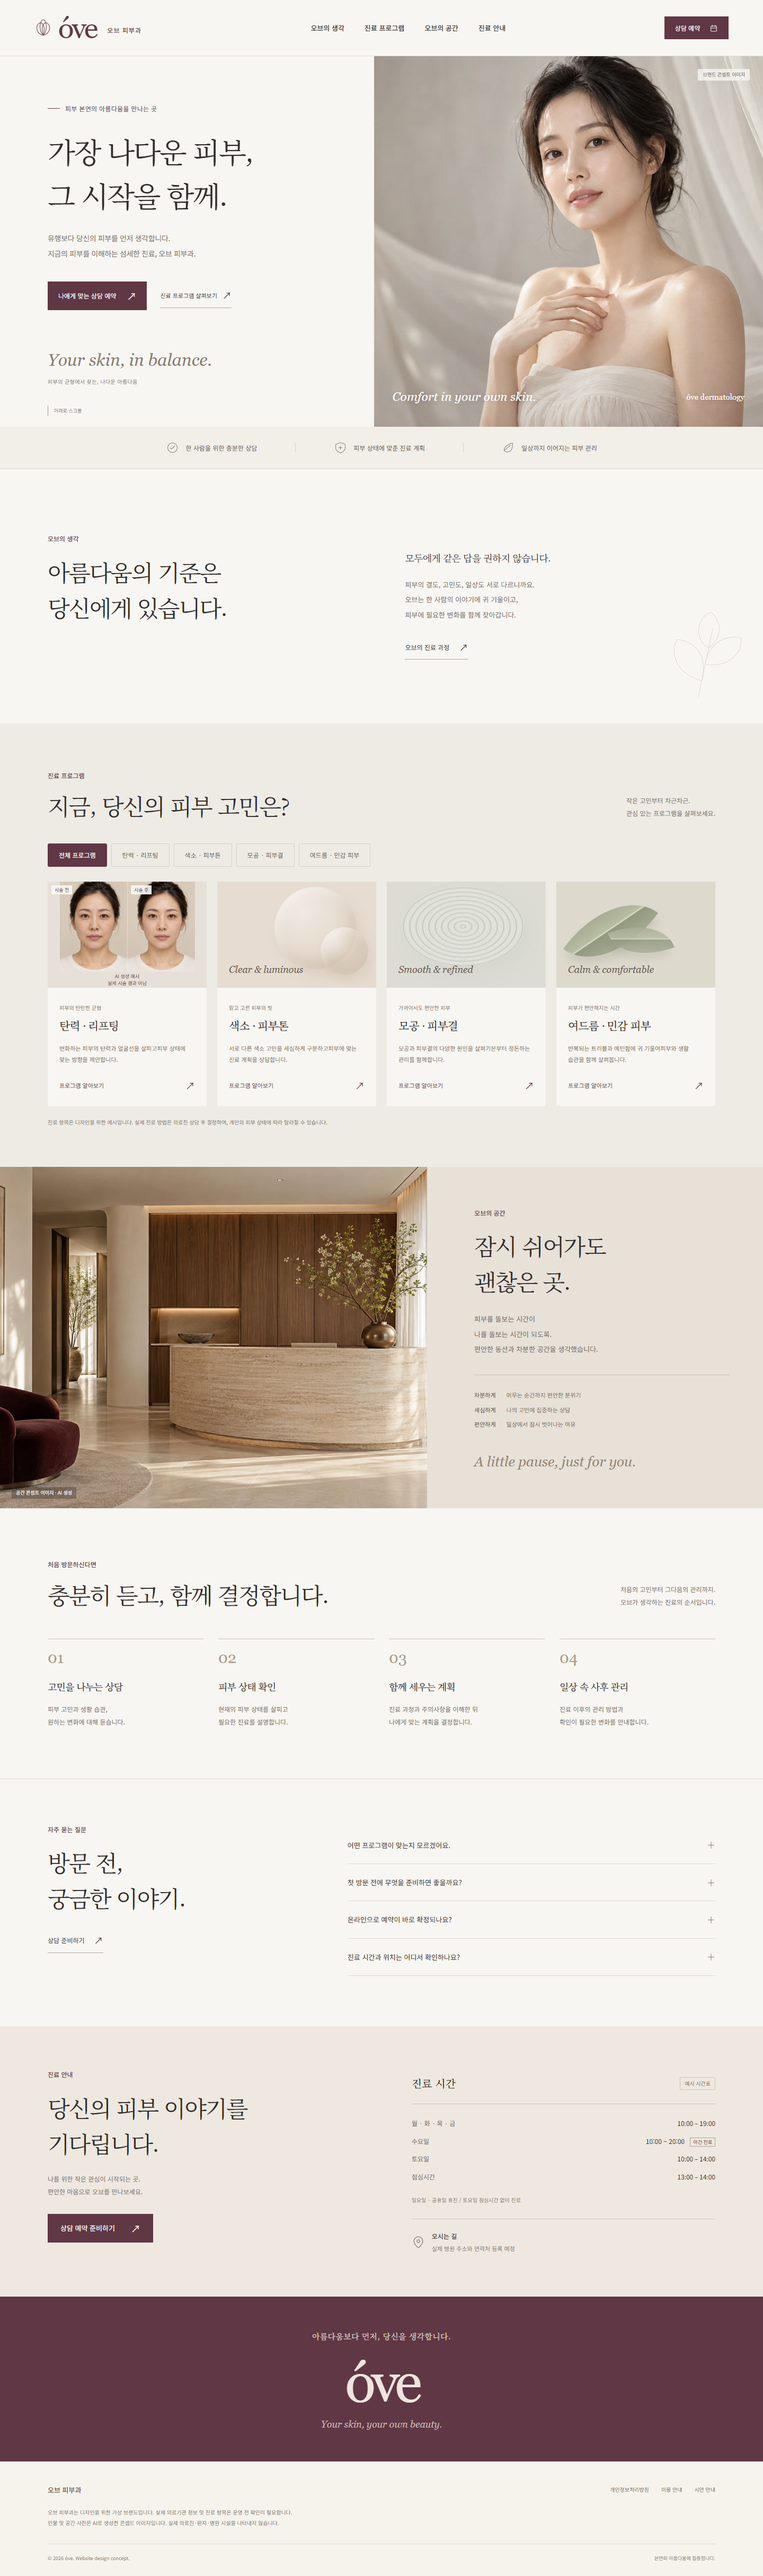
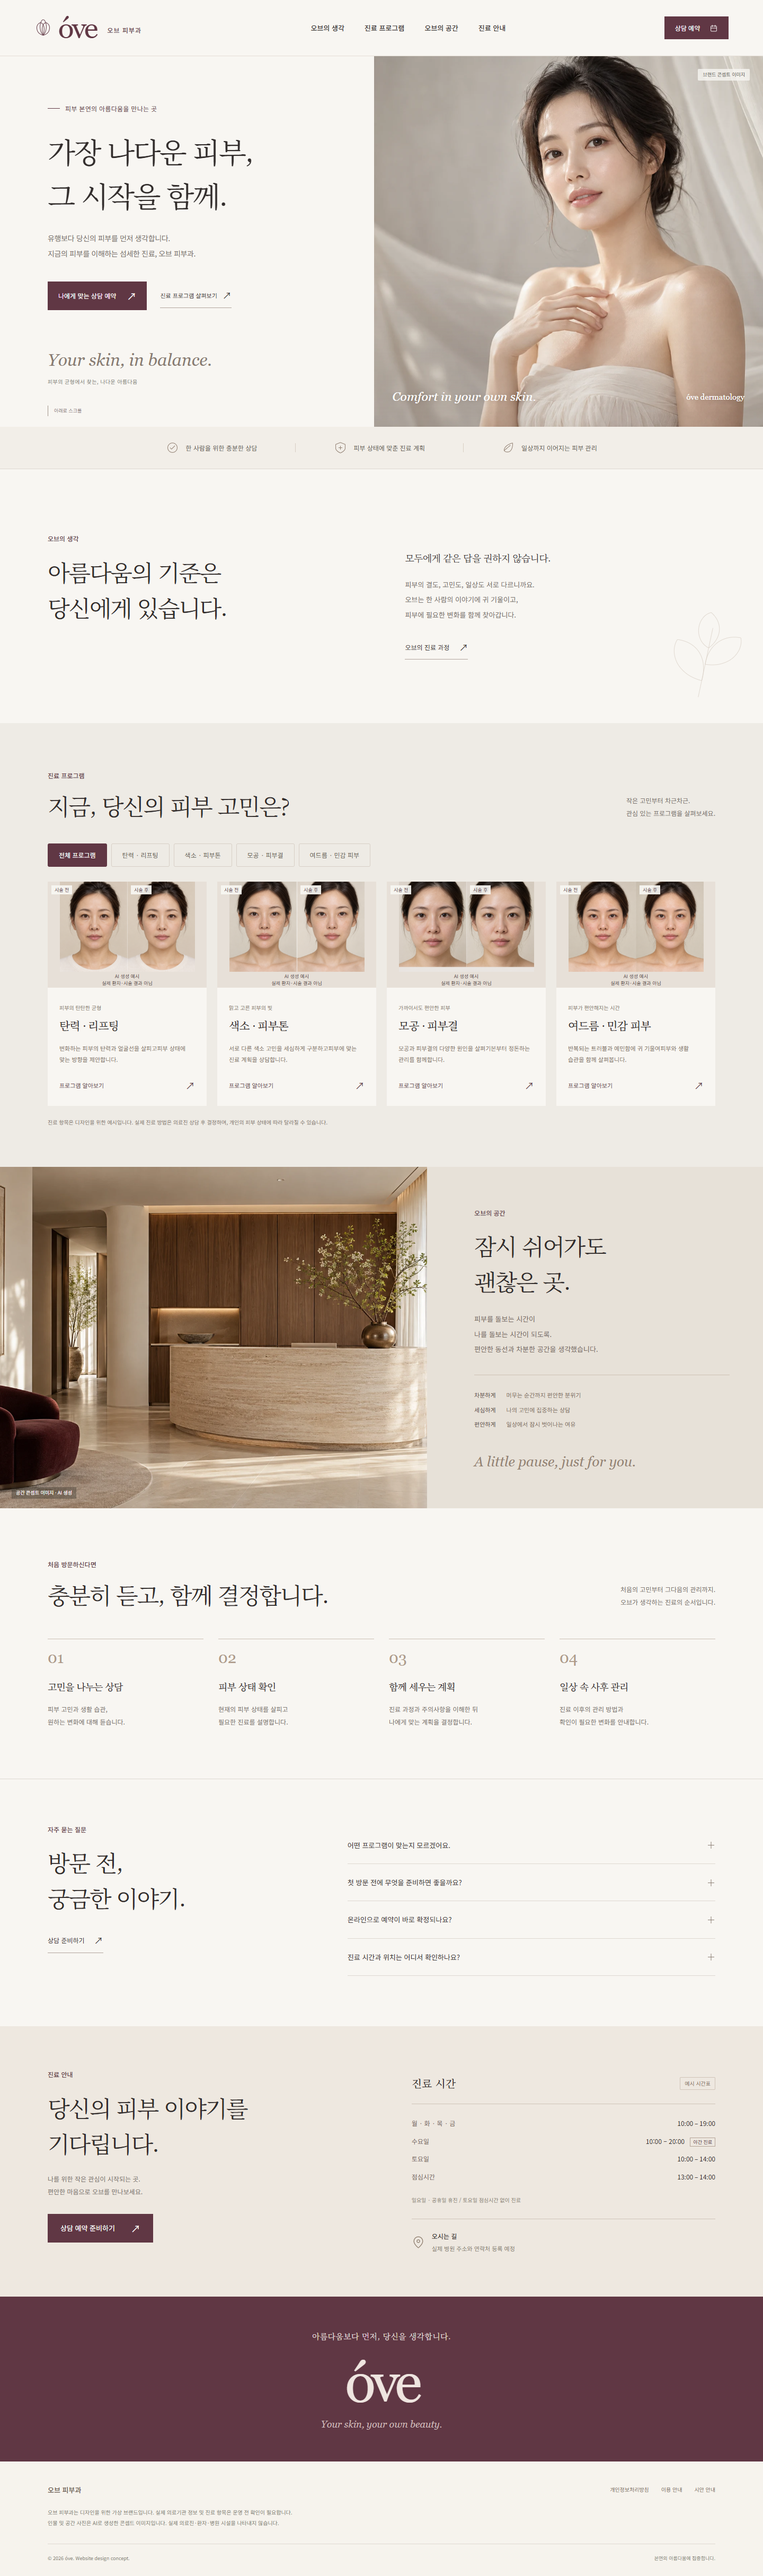
Add AI skin comparison imagery

Changed region(s): [[0.5, 0.3418, 0.9375, 0.404], [0.2812, 0.3418, 0.4688, 0.404]]

diff --git a/index.html b/index.html
@@ -52,10 +52,10 @@
       <div class="section-topline"><div><p class="section-kicker">진료 프로그램</p><h2 id="care-title">지금, 당신의 피부 고민은?</h2></div><p class="section-description">작은 고민부터 차근차근.<br>관심 있는 프로그램을 살펴보세요.</p></div>
       <div class="care-tabs" role="tablist" aria-label="피부 고민 선택"><button id="tab-all" role="tab" aria-selected="true" aria-controls="care-panel" data-category="all" tabindex="0">전체 프로그램</button><button id="tab-elasticity" role="tab" aria-selected="false" aria-controls="care-panel" data-category="elasticity" tabindex="-1">탄력 · 리프팅</button><button id="tab-tone" role="tab" aria-selected="false" aria-controls="care-panel" data-category="tone" tabindex="-1">색소 · 피부톤</button><button id="tab-texture" role="tab" aria-selected="false" aria-controls="care-panel" data-category="texture" tabindex="-1">모공 · 피부결</button><button id="tab-trouble" role="tab" aria-selected="false" aria-controls="care-panel" data-category="trouble" tabindex="-1">여드름 · 민감 피부</button></div>
       <div id="care-panel" class="care-grid" role="tabpanel" aria-labelledby="tab-all" tabindex="0">
-        <article class="care-card" data-care="elasticity"><div class="care-art art-lift care-comparison"><img src="assets/lifting-before-after.png" alt="동일한 가상의 30대 한국 여성의 탄력·리프팅 시술 전후를 표현한 AI 생성 예시. 실제 환자나 시술 결과가 아닙니다." width="1536" height="1024" loading="lazy"><div class="comparison-labels" aria-hidden="true"><span>시술 전</span><span>시술 후</span></div><small class="comparison-note">AI 생성 예시<br>실제 시술 결과 아님</small></div><div class="care-card-body"><span class="care-subtitle">피부의 탄탄한 균형</span><h3>탄력 · 리프팅</h3><p>변화하는 피부의 탄력과 얼굴선을 살피고<br>피부 상태에 맞는 방향을 제안합니다.</p><button class="card-link" data-detail="elasticity">프로그램 알아보기 <span aria-hidden="true">↗</span></button></div></article>
-        <article class="care-card" data-care="tone"><div class="care-art art-tone" aria-hidden="true"><div class="glass-sphere sphere-one"></div><div class="glass-sphere sphere-two"></div><span>Clear &amp; luminous</span></div><div class="care-card-body"><span class="care-subtitle">맑고 고른 피부의 빛</span><h3>색소 · 피부톤</h3><p>서로 다른 색소 고민을 세심하게 구분하고<br>피부에 맞는 진료 계획을 상담합니다.</p><button class="card-link" data-detail="tone">프로그램 알아보기 <span aria-hidden="true">↗</span></button></div></article>
-        <article class="care-card" data-care="texture"><div class="care-art art-texture" aria-hidden="true"><div class="ripple"></div><span>Smooth &amp; refined</span></div><div class="care-card-body"><span class="care-subtitle">가까이서도 편안한 피부</span><h3>모공 · 피부결</h3><p>모공과 피부결의 다양한 원인을 살펴<br>기본부터 정돈하는 관리를 함께합니다.</p><button class="card-link" data-detail="texture">프로그램 알아보기 <span aria-hidden="true">↗</span></button></div></article>
-        <article class="care-card" data-care="trouble"><div class="care-art art-calm" aria-hidden="true"><div class="calm-leaf leaf-one"></div><div class="calm-leaf leaf-two"></div><span>Calm &amp; comfortable</span></div><div class="care-card-body"><span class="care-subtitle">피부가 편안해지는 시간</span><h3>여드름 · 민감 피부</h3><p>반복되는 트러블과 예민함에 귀 기울여<br>피부와 생활 습관을 함께 살펴봅니다.</p><button class="card-link" data-detail="trouble">프로그램 알아보기 <span aria-hidden="true">↗</span></button></div></article>
+        <article class="care-card" data-care="elasticity"><div class="care-art art-lift care-comparison"><img src="assets/lifting-before-after.png" alt="동일한 가상의 30대 한국 여성의 탄력·리프팅 시술 전후를 표현한 AI 생성 예시. 실제 환자나 시술 결과가 아닙니다." width="1536" height="1024" loading="lazy"><div class="comparison-labels" aria-hidden="true"><span>시술 전</span><span>시술 후</span></div><small class="comparison-note">AI 생성 예시<br>실제 환자·시술 결과 아님</small></div><div class="care-card-body"><span class="care-subtitle">피부의 탄탄한 균형</span><h3>탄력 · 리프팅</h3><p>변화하는 피부의 탄력과 얼굴선을 살피고<br>피부 상태에 맞는 방향을 제안합니다.</p><button class="card-link" data-detail="elasticity">프로그램 알아보기 <span aria-hidden="true">↗</span></button></div></article>
+        <article class="care-card" data-care="tone"><div class="care-art art-tone care-comparison"><img src="assets/tone-before-after.png" alt="가상의 30대 한국 여성의 색소·피부톤 전후를 표현한 AI 생성 예시. 실제 환자나 시술 결과가 아닙니다." width="1536" height="1024" loading="lazy"><div class="comparison-labels" aria-hidden="true"><span>시술 전</span><span>시술 후</span></div><small class="comparison-note">AI 생성 예시<br>실제 환자·시술 결과 아님</small></div><div class="care-card-body"><span class="care-subtitle">맑고 고른 피부의 빛</span><h3>색소 · 피부톤</h3><p>서로 다른 색소 고민을 세심하게 구분하고<br>피부에 맞는 진료 계획을 상담합니다.</p><button class="card-link" data-detail="tone">프로그램 알아보기 <span aria-hidden="true">↗</span></button></div></article>
+        <article class="care-card" data-care="texture"><div class="care-art art-texture care-comparison"><img src="assets/texture-before-after.png" alt="가상의 30대 한국 여성의 모공·피부결 전후를 표현한 AI 생성 예시. 실제 환자나 시술 결과가 아닙니다." width="1536" height="1024" loading="lazy"><div class="comparison-labels" aria-hidden="true"><span>시술 전</span><span>시술 후</span></div><small class="comparison-note">AI 생성 예시<br>실제 환자·시술 결과 아님</small></div><div class="care-card-body"><span class="care-subtitle">가까이서도 편안한 피부</span><h3>모공 · 피부결</h3><p>모공과 피부결의 다양한 원인을 살펴<br>기본부터 정돈하는 관리를 함께합니다.</p><button class="card-link" data-detail="texture">프로그램 알아보기 <span aria-hidden="true">↗</span></button></div></article>
+        <article class="care-card" data-care="trouble"><div class="care-art art-calm care-comparison"><img src="assets/acne-before-after.png" alt="가상의 30대 한국 여성의 여드름·민감 피부 전후를 표현한 AI 생성 예시. 실제 환자나 시술 결과가 아닙니다." width="1536" height="1024" loading="lazy"><div class="comparison-labels" aria-hidden="true"><span>시술 전</span><span>시술 후</span></div><small class="comparison-note">AI 생성 예시<br>실제 환자·시술 결과 아님</small></div><div class="care-card-body"><span class="care-subtitle">피부가 편안해지는 시간</span><h3>여드름 · 민감 피부</h3><p>반복되는 트러블과 예민함에 귀 기울여<br>피부와 생활 습관을 함께 살펴봅니다.</p><button class="card-link" data-detail="trouble">프로그램 알아보기 <span aria-hidden="true">↗</span></button></div></article>
       </div>
       <p class="care-note">진료 항목은 디자인을 위한 예시입니다. 실제 진료 방법은 의료진 상담 후 결정하며, 개인의 피부 상태에 따라 달라질 수 있습니다.</p>
     </section>

diff --git a/styles.css b/styles.css
@@ -13,5 +13,5 @@
 @media(max-width:680px){html{scroll-padding-top:78px}.section-shell{padding:62px 24px}.site-header{height:78px;padding:0 22px;position:sticky;top:0}.brand{gap:9px}.brand-mark{width:26px;height:33px}.wordmark{font-size:44px;gap:15px}.brand-ko{display:block;font-size:10px;letter-spacing:0;padding-top:7px}.desktop-nav{display:none}.header-actions{gap:10px}.header-actions .button-small{min-height:35px;padding:9px 12px;font-size:10px}.header-actions .button-small svg{display:none}.menu-toggle{display:block}.menu-toggle[aria-expanded=true] span:first-child{transform:translateY(4px) rotate(45deg)}.menu-toggle[aria-expanded=true] span:last-child{transform:translateY(-4px) rotate(-45deg)}.mobile-nav{position:absolute;top:78px;left:0;right:0;padding:12px 24px 22px;background:var(--paper);border-bottom:1px solid var(--line);box-shadow:0 10px 14px #322b2208}.mobile-nav.open{display:flex;flex-direction:column}.mobile-nav a{padding:13px 0;border-bottom:1px solid #e9e2d8;font-size:13px}.hero{display:flex;flex-direction:column;min-height:0}.hero-copy{padding:46px 24px 36px;order:0}.hero-intro{font-size:10px;margin-bottom:20px;gap:9px}.hero h1{font-size:38px;line-height:1.55}.hero-description{font-size:12px;margin-top:19px}.hero-actions{flex-direction:row;align-items:center;gap:18px;margin-top:25px}.hero-actions .button{font-size:10px;padding:15px 15px;gap:18px;min-height:47px}.hero-actions .text-link{font-size:10px;gap:7px}.hero-signature{display:none}.hero-visual{height:365px;order:1}.hero-visual>img{object-position:62% 40%}.image-caption{bottom:23px;left:24px;right:24px;font-size:25px}.image-caption>span:last-child{display:none}.hero-image-note{top:16px;right:17px;font-size:8px}.scroll-cue{display:none}.values-strip{padding:20px 24px;justify-content:space-between;gap:12px}.values-strip p{flex-direction:column;text-align:center;gap:9px;max-width:94px;font-size:9px;line-height:1.7}.values-strip svg{height:24px;width:24px}.values-strip>span{height:30px}.philosophy{grid-template-columns:1fr;gap:26px}.section-kicker{font-size:11px;margin-bottom:15px}h2{font-size:30px;line-height:1.6}.philosophy-copy{padding:0 0 0 15%}.philosophy-copy .lead{font-size:16px}.philosophy-copy>p:not(.lead){font-size:12px;margin-top:14px}.philosophy-copy .text-link{margin-top:20px}.botanical{right:-16px;bottom:40px;width:119px;opacity:.3}.section-topline{display:block}.section-description{margin-top:15px;font-size:11px}.section-description br{display:none}.care{padding-left:20px;padding-right:20px}.care-tabs{margin-top:26px;gap:7px}.care-tabs button{font-size:10px;padding:9px 12px}.care-grid{gap:13px;min-height:0}.care-art{height:158px}.care-art>span{font-size:14px;bottom:11px;left:13px}.care-card-body{padding:17px 13px}.care-subtitle{font-size:8px}.care-card h3{font-size:18px;margin-top:5px;margin-bottom:10px}.care-card p{font-size:10px;line-height:1.95}.card-link{font-size:9px;padding-top:18px}.card-link>span{font-size:17px}.care-note{font-size:9px;margin-top:20px}.silk-loop{width:145px;height:100px;border-width:19px;left:12px;top:17px}.loop-two{width:117px;height:80px;left:54px;top:47px;border-width:15px}.sphere-one{width:120px;height:120px;right:20px;top:7px}.sphere-two{height:67px;width:67px;right:4px;top:73px}.ripple{left:3px;top:-42px;width:200px;height:200px}.calm-leaf{left:25px;top:8px;width:82px;height:123px}.leaf-two{left:82px;top:50px;width:54px;height:87px}.care-grid.filtered .care-card{grid-template-columns:1fr 1fr;min-height:245px}.care-grid.filtered .care-art{height:100%}.care-grid.filtered .care-card-body{align-self:center}.space{grid-template-columns:1fr}.space-image{min-height:0;height:330px}.space-image img{object-position:center}.space-copy{padding:44px 24px 49px}.space-copy h2 br{display:none}.space-copy>p:not(.section-kicker){margin-top:19px}.space-details{margin-top:24px;padding-top:20px}.space-details p{display:flex;gap:22px;margin:4px 0;font-size:11px}.space-signature{margin-top:22px;font-size:26px}.journey-steps{grid-template-columns:1fr 1fr;row-gap:33px;column-gap:22px;margin-top:32px}.step-number{font-size:26px}.journey-steps h3{font-size:17px;margin-top:14px}.journey-steps p{font-size:11px;margin-top:10px}.faq{grid-template-columns:1fr;gap:22px}.faq h2 br{display:none}.faq .text-link{margin-top:16px}.faq summary{font-size:12px;padding:21px 0}.faq details>p{font-size:11px}.visit{grid-template-columns:1fr;gap:38px}.visit h2{font-size:30px}.visit-copy>.button{font-size:11px;margin-top:23px}.visit-info{padding-top:0}.hours>div{font-size:12px;padding:7px 0}.hours-note{font-size:10px}.visit-address p{font-size:11px}.closing{padding:48px 24px}.closing>p{font-size:12px}.closing-wordmark{font-size:94px}.closing>span{font-size:17px}.site-footer{padding:31px 24px 90px}.footer-top{align-items:flex-start;gap:18px;flex-direction:column}.footer-top>div{gap:20px}.site-footer>p{font-size:9px}.footer-bottom{font-size:8px;margin-top:23px;display:block}.footer-bottom>span:last-child{display:none}.mobile-book-bar{position:fixed;bottom:0;left:0;right:0;z-index:15;background:var(--paper);display:grid;grid-template-columns:1fr 1.5fr;box-shadow:0 -2px 20px #33231b10;padding-bottom:env(safe-area-inset-bottom)}.mobile-book-bar>a,.mobile-book-bar>button{font-size:12px;min-height:54px;display:flex;align-items:center;justify-content:center}.mobile-book-bar>button{background:var(--wine);color:white;gap:30px}.mobile-book-bar>button>span{font-size:18px}.modal{padding:32px 24px;width:calc(100% - 26px);max-height:calc(100dvh - 28px)}.modal h2{font-size:24px}.modal .section-kicker{font-size:11px}.demo-notice{font-size:10px}.form-row{gap:12px}#booking-form label:not(.checkbox-label){font-size:11px}#booking-form input:not([type=checkbox]),#booking-form select{font-size:12px;padding:9px 7px}.checkbox-label{font-size:10px}.info-modal{padding-top:40px}}
 @media(max-width:370px){.brand-ko{display:none}.hero h1{font-size:34px}.hero-actions{gap:12px}.hero-actions .button{font-size:9px;gap:10px}.hero-actions .text-link{font-size:9px}.hero-visual{height:320px}.care-grid{grid-template-columns:1fr}.care-art{height:200px}.care-card-body{padding:22px}.care-card p{font-size:12px}.care-subtitle{font-size:10px}.care-card h3{font-size:22px}.card-link{font-size:11px}.care-grid.filtered .care-card{grid-template-columns:1fr}.care-grid.filtered .care-art{height:180px}.form-row{grid-template-columns:1fr}.modal h2{font-size:22px}}
 @media(prefers-reduced-motion:reduce){html{scroll-behavior:auto}*,*:before,*:after{animation:none!important;transition:none!important}}
-/* AI concept comparison for the lifting program. */
+/* AI-generated before-and-after concept comparisons for all care programs. */
 .care-comparison{background:#e7e0d8}.care-comparison>img{position:absolute;inset:0 0 30px;width:100%;height:calc(100% - 30px);object-fit:contain}.comparison-labels{position:absolute;top:7px;left:0;right:0;display:grid;grid-template-columns:1fr 1fr;text-align:center}.comparison-labels span{justify-self:start;margin-left:7px;background:#f8f6f2ed;color:var(--wine);padding:1px 6px;font-size:9px;line-height:1.7}.comparison-note{position:absolute;bottom:2px;left:5px;right:5px;text-align:center;font-size:9px;line-height:13px;color:#53473f}
